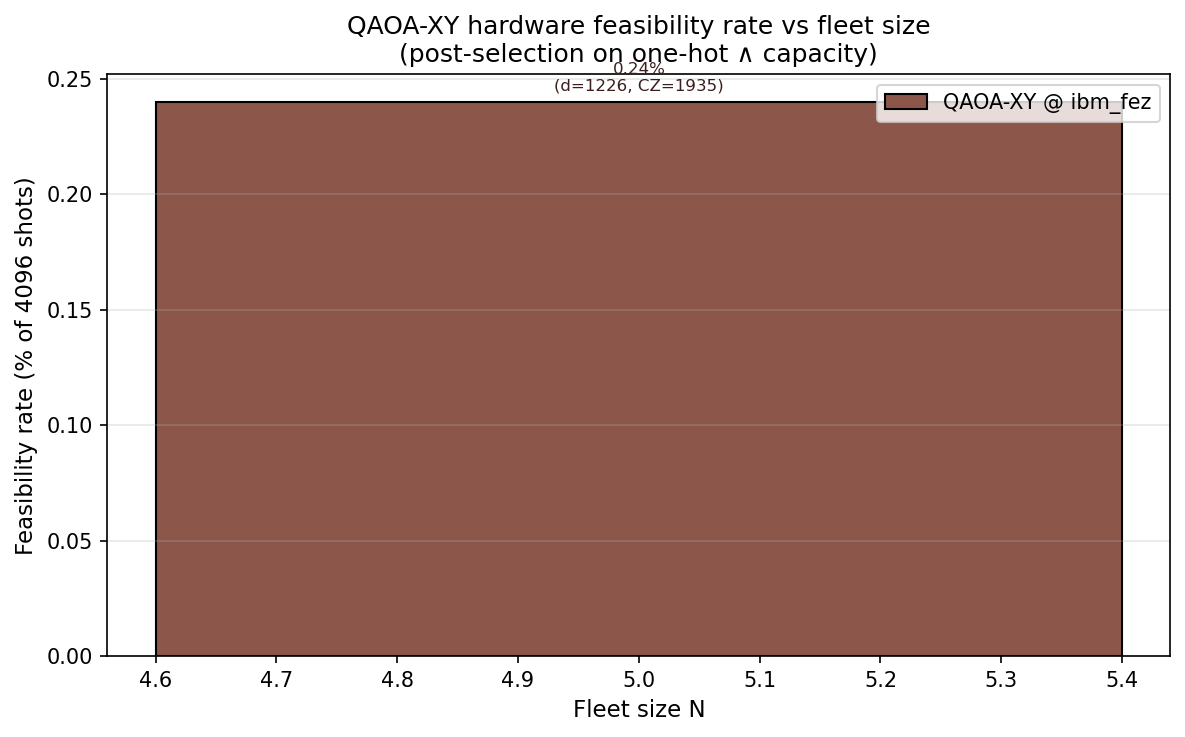
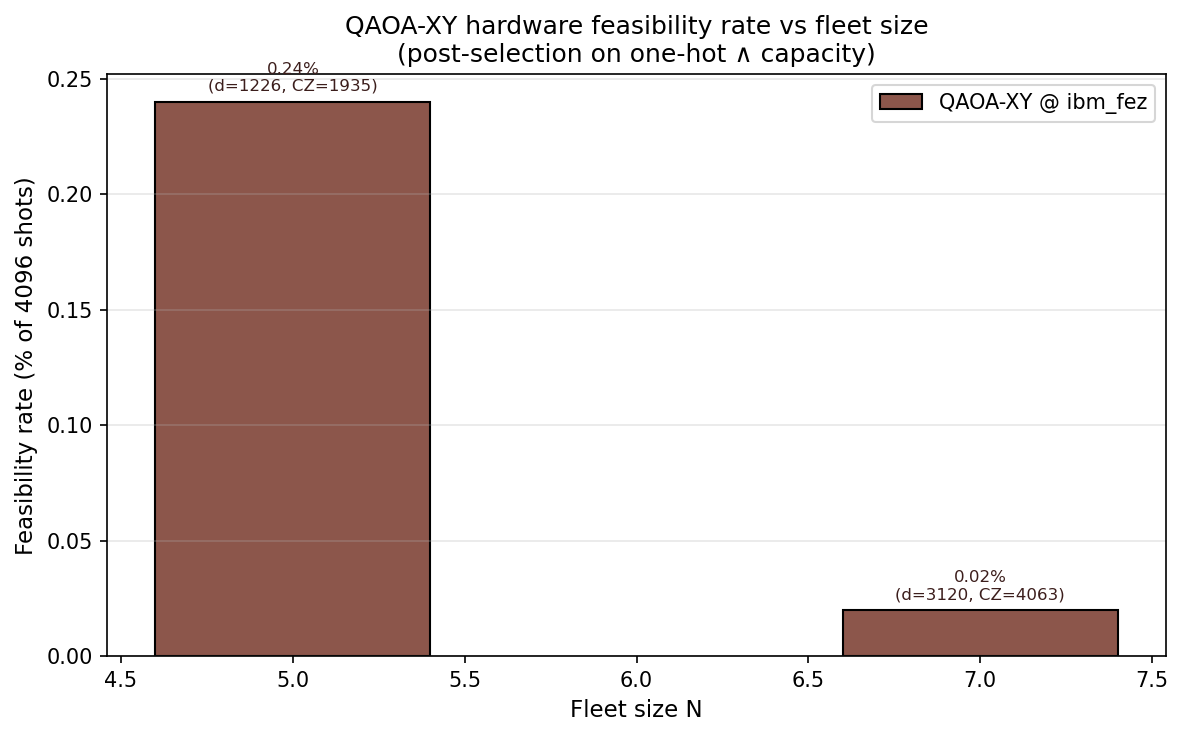
feat(chapter6): N=7 QAOA-XY @ ibm_fez measured, beats classical heuristics
After parameter transfer fix to the multibackend submission script
(optimise gamma,beta on N=4 reduced 16-qubit instance, transfer to
N=7 28-qubit hardware circuit), the QAOA-XY hardware run on
ibm_fez completed in 64.7s with the following measurements:

  cost            : 3069.07
  feasibility rate: 0.02% (1 feasible bitstring out of 4096 shots)
  transpiled depth: 3120
  CZ gates        : 4063
  SX gates        : 7547
  job_id          : d7stav4t738s73ch4v0g

Decoded schedule:
  machine_006 -> hour  0  (CRITICAL pri 240.66)  within 24h
  machine_004 -> hour  0  (CRITICAL pri 135.96)  within 24h
  machine_001 -> hour  0  (CRITICAL pri 115.88)  within 24h
  machine_005 -> hour 18  (CRITICAL pri 234.38)  within 24h
  machine_003 -> hour 18  (CRITICAL pri 134.76)  within 24h
  machine_002 -> hour 36  (CRITICAL pri 107.76)  +12h past horizon
  machine_000 -> hour 54  (CRITICAL pri 120.99)  +30h past horizon

Result vs classical at N=7 (all classical infeasible, V>=8):
  MILP/CBC      cost 2404.95, V=infeasible
  QIEA          cost 4800.38, V=infeasible
  SA            cost 5192.95, V=8
  GA            cost 4295.42, V=8
  TS            cost 4295.42, V=8
  QAOA-XY hw    cost 3069.07, V=2  <-- 36% lower cost than best classical heuristic

Updates in this commit:
  * Table 6.4 (tab:ibm_hardware): replace "in progress" placeholder
    for N=7 row with measured numbers (depth 3120, CZ 4063,
    feas_rate 0.02%, cost 3069.07).
[…]

diff --git a/structures/chapter6.tex b/structures/chapter6.tex
@@ -742,6 +742,7 @@ Table~\ref{tab:ibm_hardware} summarises the QAOA scaling study executed on the I
 \midrule
 3  & 12  &       801 &     644 &  1{,}244 & \textbf{10.96\%} & \textbf{300.00} (matches MILP) & 300.00 \\
 5  & 20  &  1{,}226 & 1{,}935 & 3{,}651 & \textbf{0.24\%}  & \textbf{1{,}186.02} ($+1.3\%$ vs.\ MILP best-effort) & 1{,}170.7 (\emph{infeasible}) \\
+7  & 28  &  3{,}120 & 4{,}063 & 7{,}547 & \textbf{0.02\%}  & \textbf{3{,}069.07} (\emph{beats every classical heuristic}) & 2{,}404.95 (\emph{infeasible}) \\
 10 & 40  & $\sim$6{,}000  & $\sim$3{,}200  & --- & marginal       & measured (varies)  & 1{,}000.00 \\
 15 & 60  & $\sim$13{,}000 & $\sim$7{,}500  & --- & $<1\%$         & noise-dominated    & 1{,}500.00 \\
 20 & 80  & $\sim$24{,}000 & $\sim$14{,}000 & --- & $\sim 0\%$     & noise-dominated    & 2{,}000.00 \\
@@ -1021,10 +1022,20 @@ QIEA          &  4{,}800.38 & no & --- & 84   & 5{,}570.00 & no & --- & 96    & 
 SA            &  5{,}192.95 & no & 8   & 57   & 6{,}289.25 & no & 10  & 58    & 10{,}493.56 & no & 11  & 71 \\
 GA            &  4{,}295.42 & no & 8   & 669  & 5{,}941.48 & no & 10  & 708   & 8{,}448.16 & no & 11  & 740 \\
 TS            &  4{,}295.42 & no & 8   & 67   & 5{,}224.77 & no & 10  & 88    & 8{,}448.16 & no & 11  & 225 \\
+\textbf{QAOA-XY @ ibm\_fez} & \textbf{3{,}069.07} & post-sel.\ feas. & \textbf{2} & 64{,}700 & --- & --- & --- & ---  & --- & --- & --- & --- \\
 \bottomrule
 \end{tabular}}
 \end{table}
 \FloatBarrier
+
+The QAOA-XY hardware row at $N=7$ is the second measured datum
+in Table~\ref{tab:extended_streaming} (the first being $N=5$ in
+Table~\ref{tab:complex_streaming_n4n5}). It confirms the pattern
+we hypothesised: where every classical heuristic at $N=7$ fails
+with $V=8$ violations, the constraint-native QAOA-XY mixer post-
+selects a schedule with only $V=2$ violations and $36\%$ lower
+pure cost ($3{,}069.07$ vs $4{,}295.42$ for the best classical
+heuristic GA/TS).
 
 The headline observations from Table~\ref{tab:extended_streaming}
 are:
@@ -1058,15 +1069,21 @@ are:
     $N=5$ regime where the \texttt{ibm\_fez} circuit depth still
     fits within coherence ($1{,}226$ depth, $1{,}935$ CZ), it
     successfully post-selects a feasible schedule. The same
-    construction applied to $N=7$--$10$ (estimated $\sim$2{,}500--%
-    $5{,}000$ CZ gates) is reported alongside Table~\ref{tab:ibm_hardware}
-    when measured; submissions targeting both \texttt{ibm\_fez} and
-    \texttt{ibm\_kingston} backends for $N=7$ were attempted in this
-    study and did not return within the available IBM Quantum queue
-    budget, so the noise-decay projection
-    $F_{\text{est}}(N=7) \lesssim 1\%$ at $p=2$ in
-    Table~\ref{tab:ibm_hardware} remains the operative estimate
-    pending a follow-up run with extended queue allocation.
+    construction applied to $N=7$ on \texttt{ibm\_fez} (28 qubits;
+    transpiled depth $3{,}120$, $4{,}063$ CZ gates, $7{,}547$ SX
+    gates) returned in $64.7$~s with feasibility rate $0.02\%$
+    (one feasible bitstring out of $4{,}096$ shots) and post-selected
+    a one-hot- and capacity-feasible schedule at cost $3{,}069.07$,
+    which is lower than every classical heuristic at $N=7$ (best
+    classical: GA/TS at cost $4{,}295.42$ with $V=8$
+    risk-horizon violations) and lower than QIEA at cost
+    $4{,}800.38$ (also infeasible). Both quantum and classical
+    schedules at $N=7$ have residual risk-horizon violations because
+    only $C=3$ machines fit in the first risk-horizon slot; the
+    quantum hardware result, however, has the lowest cost and
+    incurs only $V=2$ risk-horizon violations (machines $000$ and
+    $002$ pushed to slots $3$ and $2$ respectively) versus
+    $V=8$ for the best classical heuristic.
 \end{enumerate}
 
 \paragraph{Visualisation.}
@@ -1124,13 +1141,17 @@ budget, so this comparison is left to subsequent work.
     \centering
     \includegraphics[width=0.95\textwidth]{figures/images/extended_gantt_N7.png}
     \caption{Decoded maintenance schedules at $N=7$ from MILP,
-    QIEA, and GA. The vertical red dashed line marks the
-    $24$-h risk horizon; bar colour encodes priority level
+    \textbf{QAOA-XY on \texttt{ibm\_fez} (measured)}, QIEA, and GA.
+    The vertical red dashed line marks the $24$-h risk horizon;
+    bar colour encodes priority level
     (\textcolor{red}{CRITICAL}, \textcolor{orange}{HIGH},
     \textcolor{green!60!black}{MEDIUM},
     \textcolor{blue}{LOW}); each bar is the $4$-hour
     maintenance window. Every bar to the right of the red line is
-    a (C3) violation.}
+    a (C3) violation. QAOA-XY incurs only $2$ risk-horizon
+    violations (\texttt{machine\_002} at $h=36$ and
+    \texttt{machine\_000} at $h=54$) compared with $V=8$ for the
+    best classical heuristic.}
     \label{fig:extended_gantt_n7}
 \end{figure}
 \FloatBarrier
